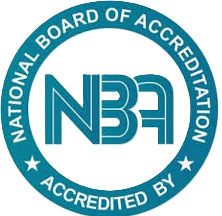
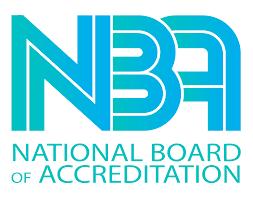
Add accreditation assets & UI updates
Add DOTE and Bharathiar University accreditation assets and surface accreditation logos across Hero and MainPage. Update Accreditations list to include DOTE and Bharathiar University; import next/image where needed and render logo grids with hover/tooltips. Remove duplicated accreditation badges from the Navbar and simplify that markup. Update TrustIndicators label to “NBA & NAAC Accredited”. Reorder and extend ReverseRoadmap milestones (added NBA/NAAC/autonomous milestones). Adjust various layout/interaction tweaks: fix admission card hover translate class, change hero/main tagline copy, and update carousel/card min-width utility classes in institution pages. Replace/update public images (added dote.png and bharathiar_university.png; updated nba.png).

diff --git a/app/components/pages/MainPage.tsx b/app/components/pages/MainPage.tsx
@@ -12,6 +12,7 @@ import { CompanyCarousel } from "@/app/components/CompanyCarousel";
 import { Accreditations } from "@/app/components/Accreditations";
 import { Institutions } from "@/app/components/Institutions";
 import Link from "next/link";
+import Image from "next/image";
 import {
     ArrowUpRight,
     ArrowRight,
@@ -92,7 +93,7 @@ export default function MainPage() {
                         >
                             Three Colleges. <br />
                             One Commitment to <br />
-                            <span className="text-accent italic font-light">Honest Education.</span>
+                            <span className="text-accent italic font-light">your success starts here</span>
                         </motion.h1>
 
                         <motion.p
@@ -108,7 +109,7 @@ export default function MainPage() {
                             initial={{ opacity: 0, y: 20 }}
                             animate={{ opacity: 1, y: 0 }}
                             transition={{ duration: 0.8, delay: 0.5 }}
-                            className="flex flex-wrap gap-4"
+                            className="flex flex-wrap items-center gap-4"
                         >
                             <Button size="lg" className="h-14 px-8 text-base bg-accent text-primary hover:bg-accent/90 font-bold rounded-xl transition-all hover:scale-105 active:scale-95 group shadow-xl shadow-accent/20">
                                 Apply Now <ArrowRight className="ml-2 w-5 h-5 group-hover:translate-x-1 transition-transform" />
@@ -120,7 +121,43 @@ export default function MainPage() {
                     </div>
                 </div>
 
-
+                {/* Accreditation Logos - Bottom Right */}
+                <motion.div
+                    initial={{ opacity: 0, y: 20 }}
+                    animate={{ opacity: 1, y: 0 }}
+                    transition={{ delay: 0.8, duration: 0.8 }}
+                    className="absolute bottom-10 left-0 right-0 z-30 pointer-events-none"
+                >
+                    <div className="container mx-auto px-4 md:px-6">
+                        <div className="flex flex-wrap items-center justify-center lg:justify-end gap-4 md:gap-6 lg:gap-8 pointer-events-auto lg:pr-28">
+                            {[
+                                { name: "AICTE", logo: "/aicte.png" },
+                                { name: "Anna University", logo: "/anna.png" },
+                                { name: "NAAC", logo: "/naac.png" },
+                                { name: "NBA", logo: "/nba.png" },
+                                { name: "ISO", logo: "/iso.png" },
+                                { name: "UGC", logo: "/ugc.png" },
+                                { name: "DOTE", logo: "/dote.png" },
+                                { name: "Bharathiar University", logo: "/bharathiar_university.png" },
+                            ].map((item) => (
+                                <div key={item.name} className="relative group/logo cursor-pointer">
+                                    <div className="relative h-12 w-12 md:h-16 md:w-16 lg:h-20 lg:w-20 transition-transform duration-300 group-hover/logo:scale-110 opacity-90 group-hover/logo:opacity-100">
+                                        <Image
+                                            src={item.logo}
+                                            alt={item.name}
+                                            fill
+                                            className="object-contain filter drop-shadow-xl"
+                                        />
+                                    </div>
+                                    {/* Tooltip */}
+                                    <div className="absolute -top-10 left-1/2 -translate-x-1/2 bg-white/90 text-primary text-[10px] font-bold px-2 py-1 rounded-md opacity-0 group-hover/logo:opacity-100 transition-opacity whitespace-nowrap">
+                                        {item.name}
+                                    </div>
+                                </div>
+                            ))}
+                        </div>
+                    </div>
+                </motion.div>
             </section>
 
             <TrustIndicators />

diff --git a/app/components/Navbar.tsx b/app/components/Navbar.tsx
@@ -176,37 +176,6 @@ export function Navbar() {
 
                     {/* Desktop Right Actions */}
                     <div className="hidden lg:flex items-center gap-3">
-                        {/* Accreditation Logos */}
-                        <div className={cn(
-                            "flex items-center gap-2 mr-1 transition-all duration-300",
-                            scrolled ? "opacity-100" : "opacity-90"
-                        )}>
-                            {[
-                                { label: "NAAC", src: "/naac.png" },
-                                { label: "AICTE", src: "/aicte.png" },
-                                { label: "Anna University", src: "/anna.png" },
-                            ].map((badge) => (
-                                <div
-                                    key={badge.label}
-                                    className={cn(
-                                        "rounded-full p-1 border transition-all duration-300 flex items-center justify-center",
-                                        scrolled
-                                            ? "border-stone-200 bg-white shadow-sm"
-                                            : "border-white/20 bg-white/10 backdrop-blur-sm"
-                                    )}
-                                    title={badge.label}
-                                >
-                                    <Image
-                                        src={badge.src}
-                                        alt={badge.label}
-                                        width={28}
-                                        height={28}
-                                        className="w-7 h-7 rounded-full object-contain"
-                                    />
-                                </div>
-                            ))}
-                        </div>
-
                         <Link
                             href="#admissions"
                             className={cn(
@@ -359,29 +328,6 @@ export function Navbar() {
                                     <Link href="#" className="hover:text-primary">Admissions</Link>
                                     <Link href="#" className="hover:text-primary">Contact</Link>
                                     <Link href="#" className="hover:text-primary">Login</Link>
-                                </div>
-
-                                {/* Accreditation Logos */}
-                                <div className="flex items-center justify-center gap-3 pt-4 border-t border-stone-100 mt-3">
-                                    {[
-                                        { label: "NAAC", src: "/naac.png" },
-                                        { label: "AICTE", src: "/aicte.png" },
-                                        { label: "Anna University", src: "/anna.png" },
-                                    ].map((badge) => (
-                                        <div
-                                            key={badge.label}
-                                            className="rounded-full p-1 border border-stone-200 bg-white shadow-sm flex items-center justify-center"
-                                            title={badge.label}
-                                        >
-                                            <Image
-                                                src={badge.src}
-                                                alt={badge.label}
-                                                width={32}
-                                                height={32}
-                                                className="w-8 h-8 rounded-full object-contain"
-                                            />
-                                        </div>
-                                    ))}
                                 </div>
                             </div>
                         </motion.div>

diff --git a/app/components/Hero.tsx b/app/components/Hero.tsx
@@ -5,6 +5,7 @@ import { motion, useScroll, useTransform } from "framer-motion";
 import { Button } from "@/app/components/ui/button";
 import { ArrowRight, Phone } from "lucide-react";
 import Link from "next/link";
+import Image from "next/image";
 
 export function Hero() {
     const ref = useRef(null);
@@ -90,15 +91,38 @@ export function Hero() {
                 </motion.div>
             </div>
 
-            {/* Simple Scroll Indicator */}
+            {/* Accreditation Logos */}
             <motion.div
-                initial={{ opacity: 0 }}
-                animate={{ opacity: 1 }}
-                transition={{ delay: 1, duration: 1 }}
-                className="absolute bottom-8 left-1/2 -translate-x-1/2 flex flex-col items-center gap-2 text-white/50"
+                initial={{ opacity: 0, y: 20 }}
+                animate={{ opacity: 1, y: 0 }}
+                transition={{ delay: 0.6, duration: 0.8 }}
+                className="absolute bottom-6 md:bottom-8 left-0 right-0 z-30"
             >
-                <div className="w-px h-12 bg-linear-to-b from-transparent via-white/50 to-transparent" />
-                <span className="text-[10px] tracking-widest uppercase">Scroll</span>
+                <div className="container mx-auto px-4 md:px-6">
+                    <div className="flex flex-wrap items-center justify-center gap-3 md:gap-5">
+                        {[
+                            { name: "AICTE", logo: "/aicte.png" },
+                            { name: "Anna University", logo: "/anna.png" },
+                            { name: "NAAC", logo: "/naac.png" },
+                            { name: "NBA", logo: "/nba.png" },
+                            { name: "ISO", logo: "/iso.png" },
+                            { name: "UGC", logo: "/ugc.png" },
+                            { name: "DOTE", logo: "/dote.png" },
+                            { name: "Bharathiar University", logo: "/bharathiar_university.png" },
+                        ].map((item) => (
+                            <div key={item.name} className="relative group">
+                                <div className="relative h-9 w-9 md:h-11 md:w-11 transition-transform duration-300 group-hover:scale-110 opacity-90 group-hover:opacity-100">
+                                    <Image
+                                        src={item.logo}
+                                        alt={item.name}
+                                        fill
+                                        className="object-contain filter drop-shadow-lg"
+                                    />
+                                </div>
+                            </div>
+                        ))}
+                    </div>
+                </div>
             </motion.div>
         </section>
     );

diff --git a/app/institutions/arts-science/page.tsx b/app/institutions/arts-science/page.tsx
@@ -220,7 +220,7 @@ export default function ArtsSciencePage() {
                                 whileInView={{ opacity: 1, x: 0 }}
                                 viewport={{ once: true }}
                                 transition={{ duration: 0.4, delay: index * 0.06 }}
-                                className="bg-white p-6 rounded-2xl border border-stone-100 hover:border-accent/20 hover:shadow-lg transition-all duration-300 group min-w-[220px] md:min-w-[260px] max-w-[280px] snap-center shrink-0 flex flex-col justify-between"
+                                className="bg-white p-6 rounded-2xl border border-stone-100 hover:border-accent/20 hover:shadow-lg transition-all duration-300 group min-w-55 md:min-w-65 max-w-70 snap-center shrink-0 flex flex-col justify-between"
                                 draggable={false}
                             >
                                 <div>
@@ -267,7 +267,7 @@ export default function ArtsSciencePage() {
                                 whileInView={{ opacity: 1, x: 0 }}
                                 viewport={{ once: true }}
                                 transition={{ duration: 0.4, delay: index * 0.08 }}
-                                className="bg-white p-6 rounded-2xl border border-stone-100 hover:border-accent/20 hover:shadow-lg transition-all duration-300 min-w-[220px] md:min-w-[260px] max-w-[280px] snap-center shrink-0 flex flex-col justify-between"
+                                className="bg-white p-6 rounded-2xl border border-stone-100 hover:border-accent/20 hover:shadow-lg transition-all duration-300 min-w-55 md:min-w-65 max-w-70 snap-center shrink-0 flex flex-col justify-between"
                                 draggable={false}
                             >
                                 <div>
@@ -310,7 +310,7 @@ export default function ArtsSciencePage() {
                                 whileInView={{ opacity: 1, x: 0 }}
                                 viewport={{ once: true }}
                                 transition={{ duration: 0.4, delay: index * 0.06 }}
-                                className="p-8 rounded-2xl border border-stone-100 hover:border-accent/20 hover:shadow-md transition-all duration-300 group min-w-[240px] md:min-w-[280px] snap-center shrink-0 bg-white"
+                                className="p-8 rounded-2xl border border-stone-100 hover:border-accent/20 hover:shadow-md transition-all duration-300 group min-w-60 md:min-w-70 snap-center shrink-0 bg-white"
                                 draggable={false}
                             >
                                 <div className="p-3 bg-stone-50 rounded-xl text-primary w-fit mb-5 group-hover:bg-accent/10 group-hover:text-accent transition-colors">

diff --git a/app/components/ReverseRoadmap.tsx b/app/components/ReverseRoadmap.tsx
@@ -3,11 +3,13 @@
 import { motion } from "framer-motion";
 
 const milestones = [
-    { year: "2026", title: "Looking Ahead", desc: "Expanding research collaborations, industry tie-ups, and international academic partnerships for a future-ready ecosystem." },
-    { year: "2024", title: "Arts & Science College Added", desc: "Responding to demand for broader academic pathways, JCT College of Arts and Science began operations with undergraduate programs." },
-    { year: "2019", title: "Decade of Excellence", desc: "Celebrated 10 years of educational service with over 12,000 alumni and new departments in emerging technologies." },
-    { year: "2014", title: "Polytechnic College Established", desc: "JCT Polytechnic College was founded to provide diploma-level technical education with strong workshop-based training." },
     { year: "2009", title: "Foundation & Engineering", desc: "JCT Institutions was established in Coimbatore, launching the College of Engineering and Technology with 240 students." },
+    { year: "2014", title: "Polytechnic College Established", desc: "JCT Polytechnic College was founded to provide diploma-level technical education with strong workshop-based training." },
+    { year: "2016", title: "NBA Accreditation", desc: "Engineering programs received NBA accreditation, marking a significant milestone in quality assurance and academic excellence." },
+    { year: "2018", title: "NAAC Accreditation", desc: "Achieved NAAC accreditation, demonstrating commitment to continuous quality improvement and institutional standards." },
+    { year: "2019", title: "Decade of Excellence", desc: "Celebrated 10 years of educational service with over 12,000 alumni and new departments in emerging technologies." },
+    { year: "2024", title: "Autonomous Status Granted", desc: "JCT College of Engineering and Technology was granted autonomous status, enabling greater academic flexibility and innovation." },
+    { year: "2026", title: "Looking Ahead", desc: "Expanding research collaborations, industry tie-ups, and international academic partnerships for a future-ready ecosystem." },
 ];
 
 export function ReverseRoadmap() {

diff --git a/app/institutions/engineering/page.tsx b/app/institutions/engineering/page.tsx
@@ -189,7 +189,7 @@ export default function EngineeringPage() {
                                 whileInView={{ opacity: 1, x: 0 }}
                                 viewport={{ once: true }}
                                 transition={{ duration: 0.35, delay: index * 0.05 }}
-                                className="group bg-white border border-stone-100 rounded-2xl p-6 md:p-8 hover:border-accent/20 hover:shadow-lg transition-all duration-300 min-w-[250px] md:min-w-[290px] snap-center shrink-0 flex flex-col justify-between"
+                                className="group bg-white border border-stone-100 rounded-2xl p-6 md:p-8 hover:border-accent/20 hover:shadow-lg transition-all duration-300 min-w-62.5 md:min-w-72.5 snap-center shrink-0 flex flex-col justify-between"
                                 draggable={false}
                             >
                                 <div className="flex flex-col gap-4">

diff --git a/app/institutions/polytechnic/page.tsx b/app/institutions/polytechnic/page.tsx
@@ -216,7 +216,7 @@ export default function PolytechnicPage() {
                                 whileInView={{ opacity: 1, x: 0 }}
                                 viewport={{ once: true }}
                                 transition={{ duration: 0.5, delay: index * 0.08 }}
-                                className="bg-stone-50 rounded-2xl p-8 border border-stone-100 hover:border-accent/20 hover:shadow-lg transition-all duration-300 group min-w-[250px] md:min-w-[300px] snap-center shrink-0 flex flex-col justify-between"
+                                className="bg-stone-50 rounded-2xl p-8 border border-stone-100 hover:border-accent/20 hover:shadow-lg transition-all duration-300 group min-w-62.5 md:min-w-75 snap-center shrink-0 flex flex-col justify-between"
                                 draggable={false}
                             >
                                 <div>

diff --git a/app/components/Admissions.tsx b/app/components/Admissions.tsx
@@ -80,7 +80,7 @@ export function Admissions() {
                                     whileInView={{ opacity: 1, y: 0 }}
                                     viewport={{ once: true }}
                                     transition={{ duration: 0.5, delay: index * 0.1 }}
-                                    className="bg-white/5 hover:bg-white/10 border border-white/10 p-10 rounded-3xl transition-all duration-300 hover:translate-y-[-4px]"
+                                    className="bg-white/5 hover:bg-white/10 border border-white/10 p-10 rounded-3xl transition-all duration-300 hover:-translate-y-1"
                                 >
                                     <div className="flex justify-between items-start mb-8">
                                         <div className="p-4 bg-white/10 rounded-2xl text-accent">

diff --git a/app/components/Accreditations.tsx b/app/components/Accreditations.tsx
@@ -10,6 +10,8 @@ const accreditations = [
     { name: "NBA Accredited", logo: "/nba.png" },
     { name: "ISO Certified", logo: "/iso.png" },
     { name: "UGC Recognized", logo: "/ugc.png" },
+    { name: "DOTE Approved", logo: "/dote.png" },
+    { name: "Bharathiar University Affiliated", logo: "/bharathiar_university.png" },
 ];
 
 export function Accreditations() {

diff --git a/app/components/TrustIndicators.tsx b/app/components/TrustIndicators.tsx
@@ -11,7 +11,7 @@ const indicators = [
     },
     {
         icon: Award,
-        label: "NAAC Accredited",
+        label: "NBA & NAAC Accredited",
         sub: "Quality Education"
     },
     {
